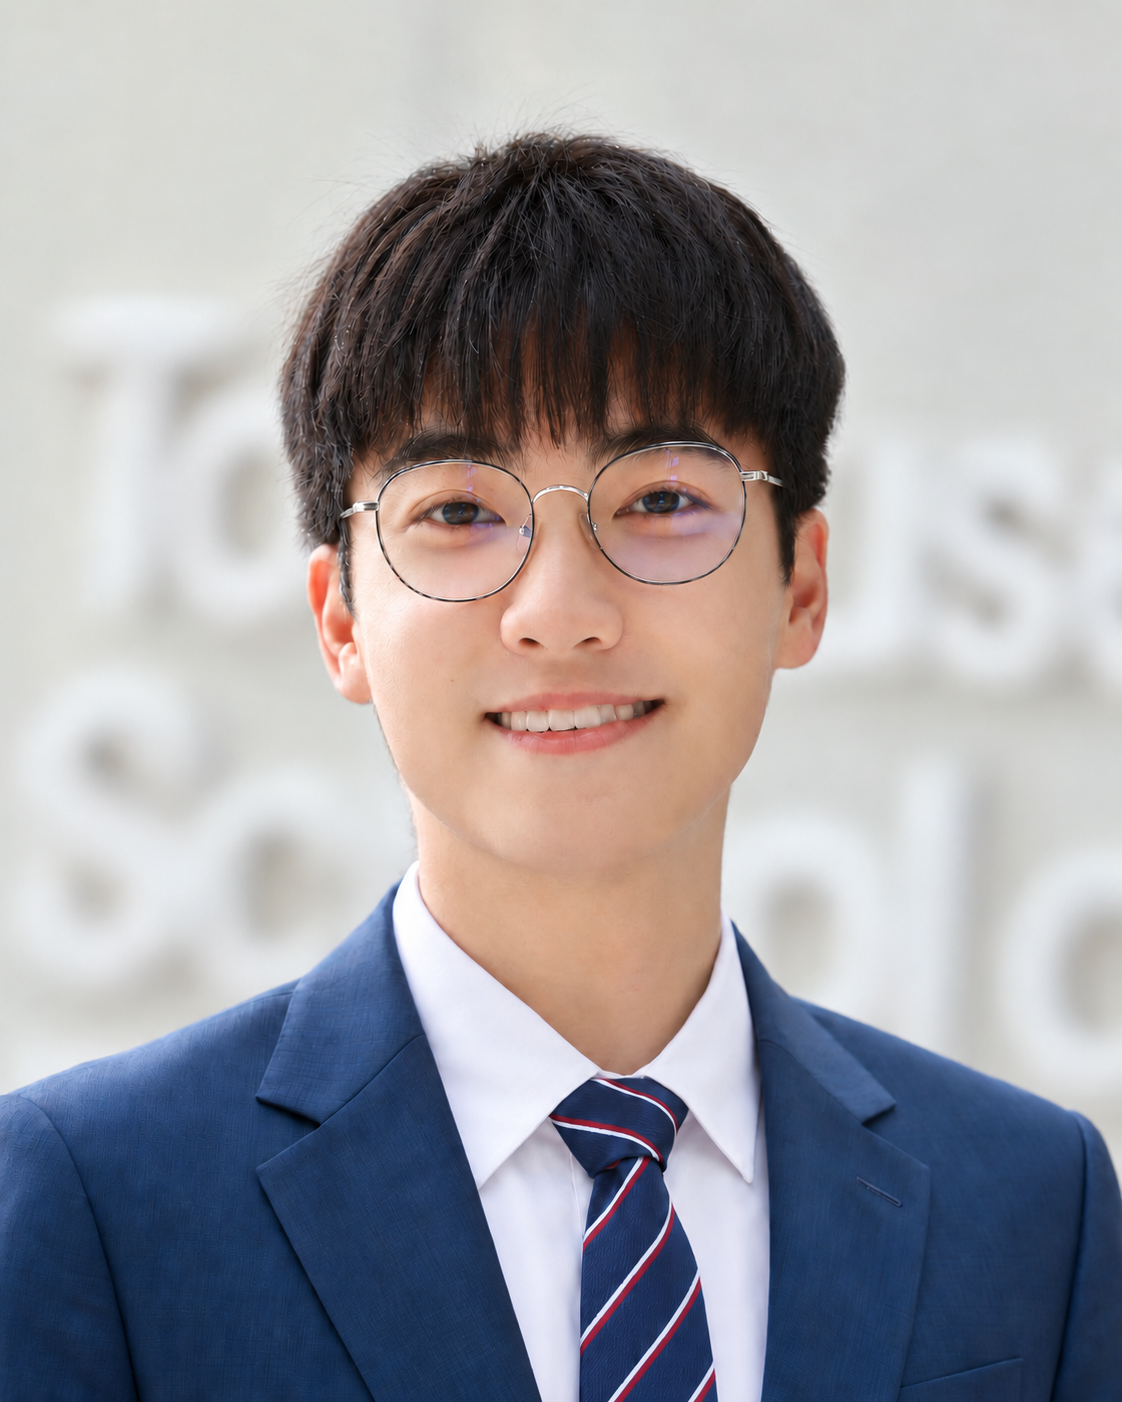
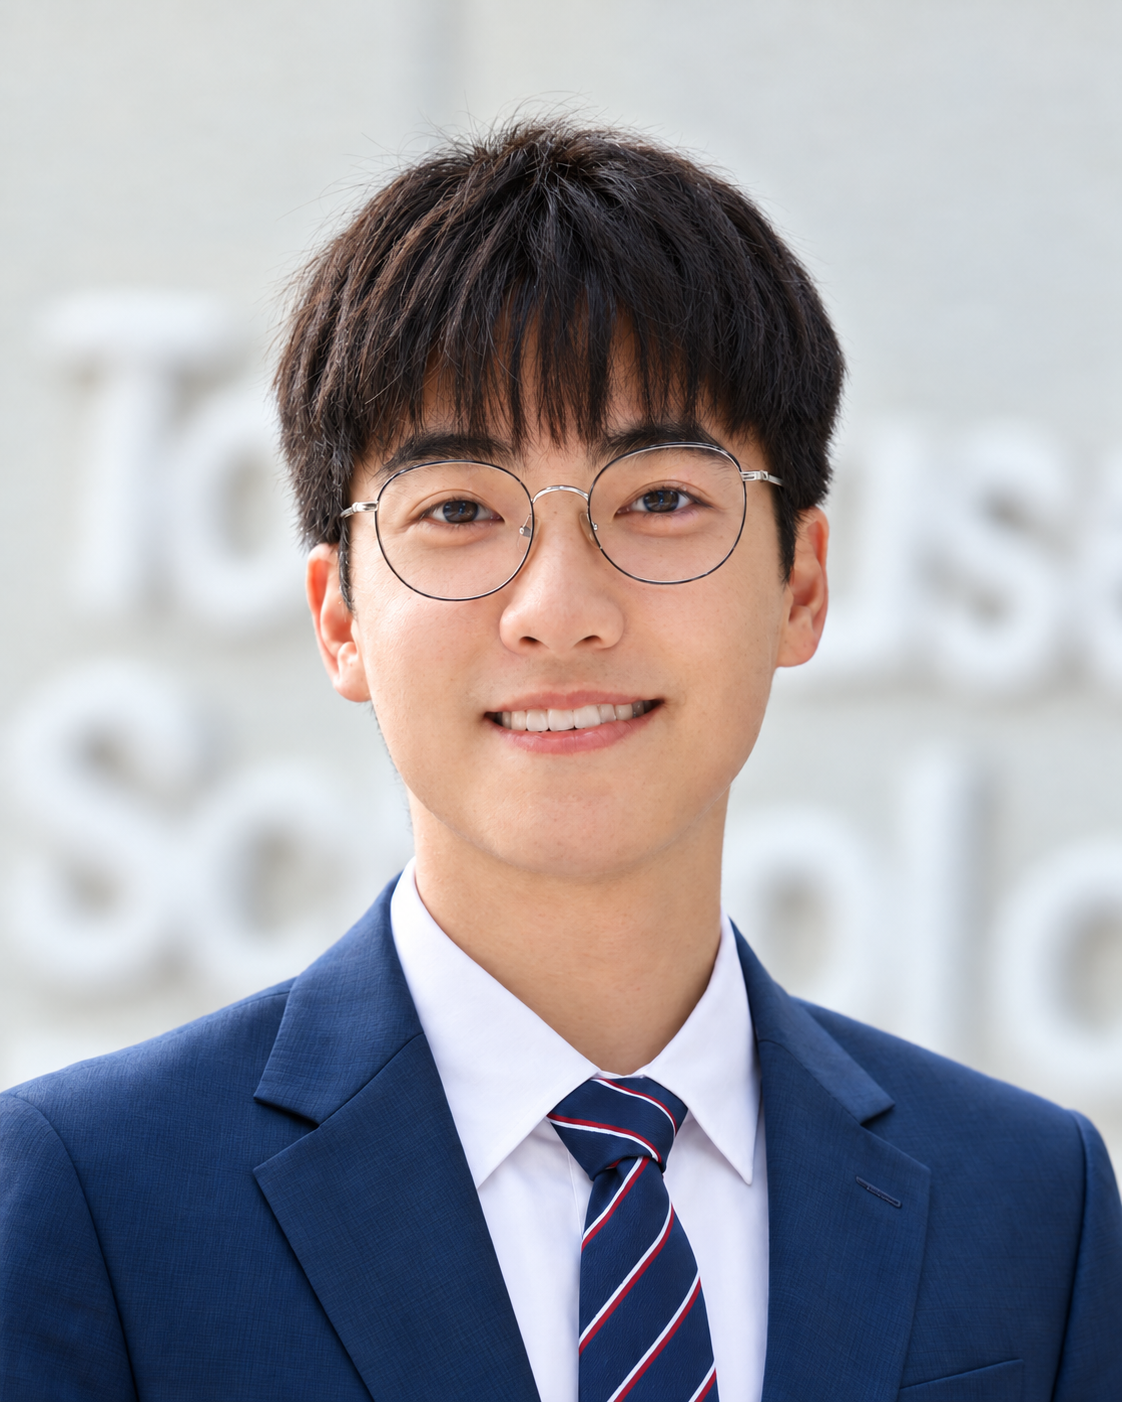
Use portrait_30yr_A portrait

diff --git a/index.html b/index.html
@@ -16,7 +16,7 @@
 <meta property="og:url" content="https://hanlin-zhao.github.io/" />
 <meta property="og:title" content="Hanlin Zhao" />
 <meta property="og:description" content="PhD candidate in Economics at Toulouse School of Economics. Empirical industrial organization, digital economics, quantitative marketing and structural econometrics." />
-<meta property="og:image" content="https://hanlin-zhao.github.io/assets/portrait.png?v=f0ea57dc" />
+<meta property="og:image" content="https://hanlin-zhao.github.io/assets/portrait.png?v=45a8ade0" />
 <meta property="og:image:alt" content="Portrait of Hanlin Zhao" />
 <meta name="twitter:card" content="summary_large_image" />
 
@@ -30,7 +30,7 @@
   "@type": "Person",
   "name": "Hanlin Zhao",
   "url": "https://hanlin-zhao.github.io/",
-  "image": "https://hanlin-zhao.github.io/assets/portrait.png?v=f0ea57dc",
+  "image": "https://hanlin-zhao.github.io/assets/portrait.png?v=45a8ade0",
   "jobTitle": "PhD Candidate in Economics",
   "email": "mailto:hanlin.zhao@tse-fr.eu",
   "affiliation": {
@@ -68,7 +68,7 @@
 <main id="main">
   <section class="hero shell" id="top">
     <div class="hero-visual">
-      <img class="portrait" src="assets/portrait.png?v=f0ea57dc" width="1122" height="1402"
+      <img class="portrait" src="assets/portrait.png?v=45a8ade0" width="1122" height="1402"
            alt="Hanlin Zhao" fetchpriority="high" />
     </div>
 
